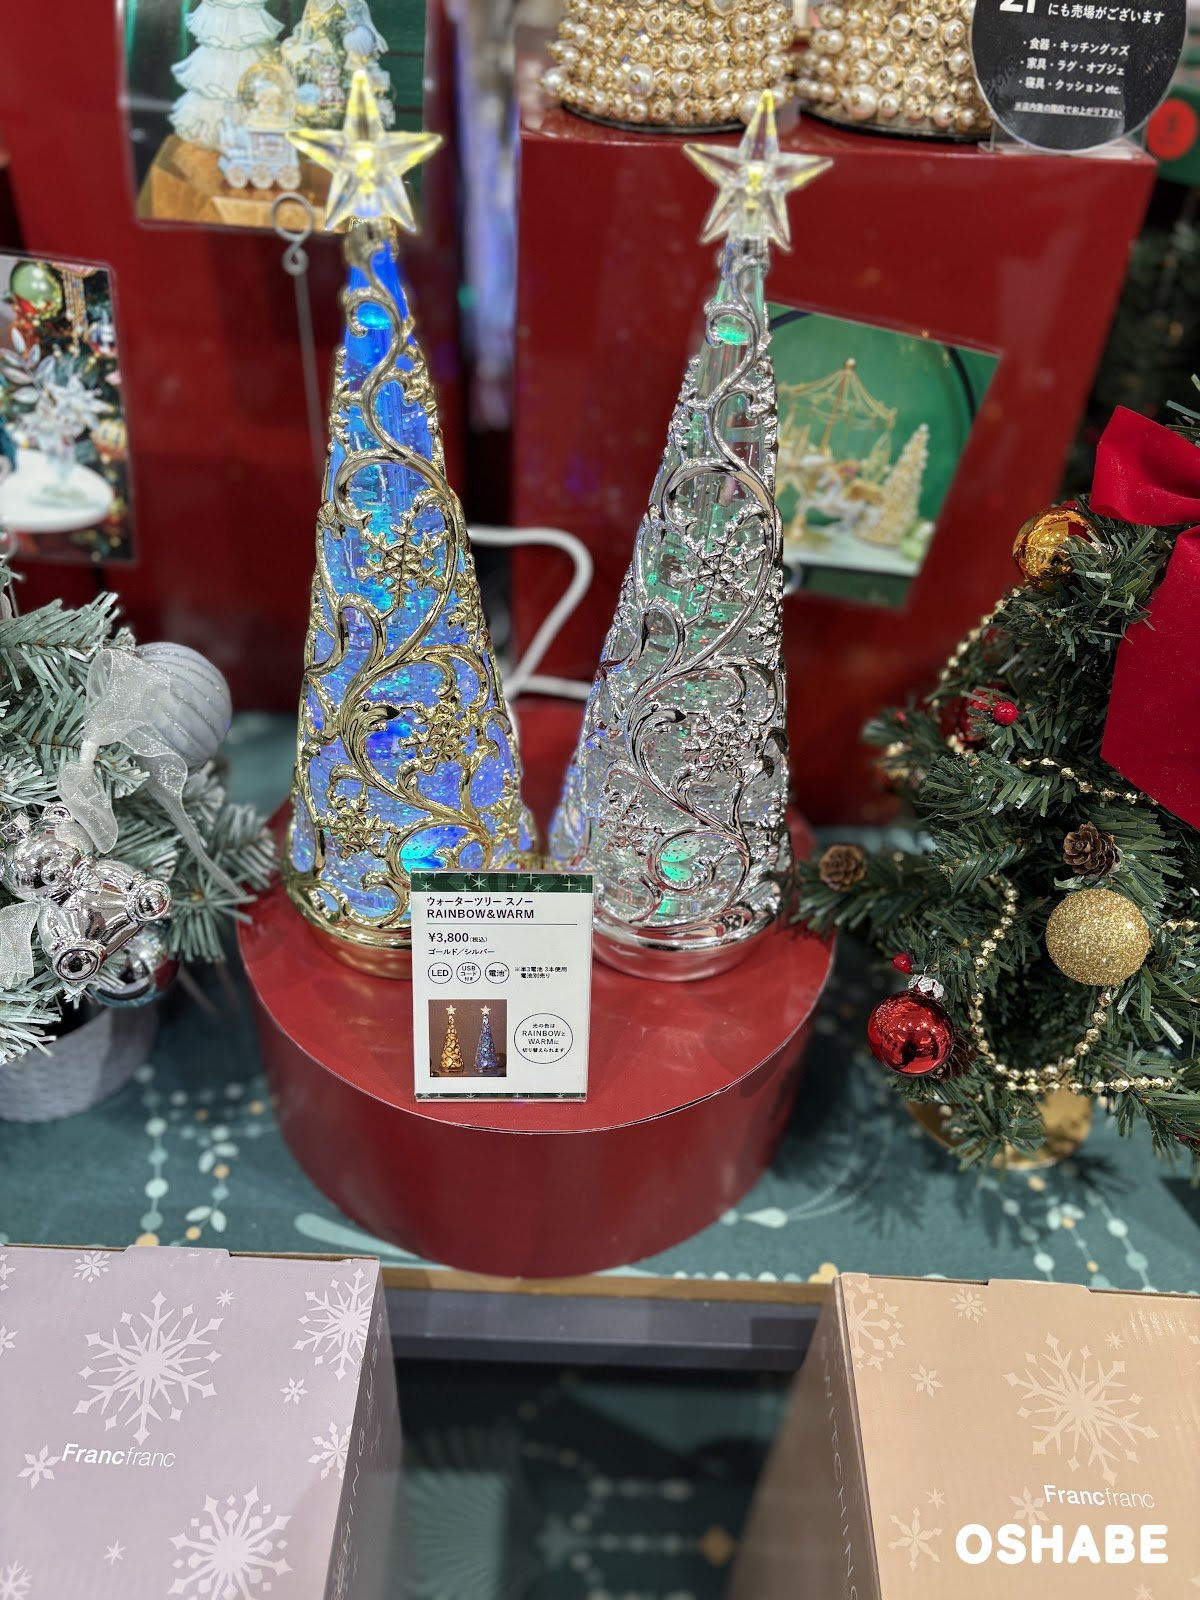
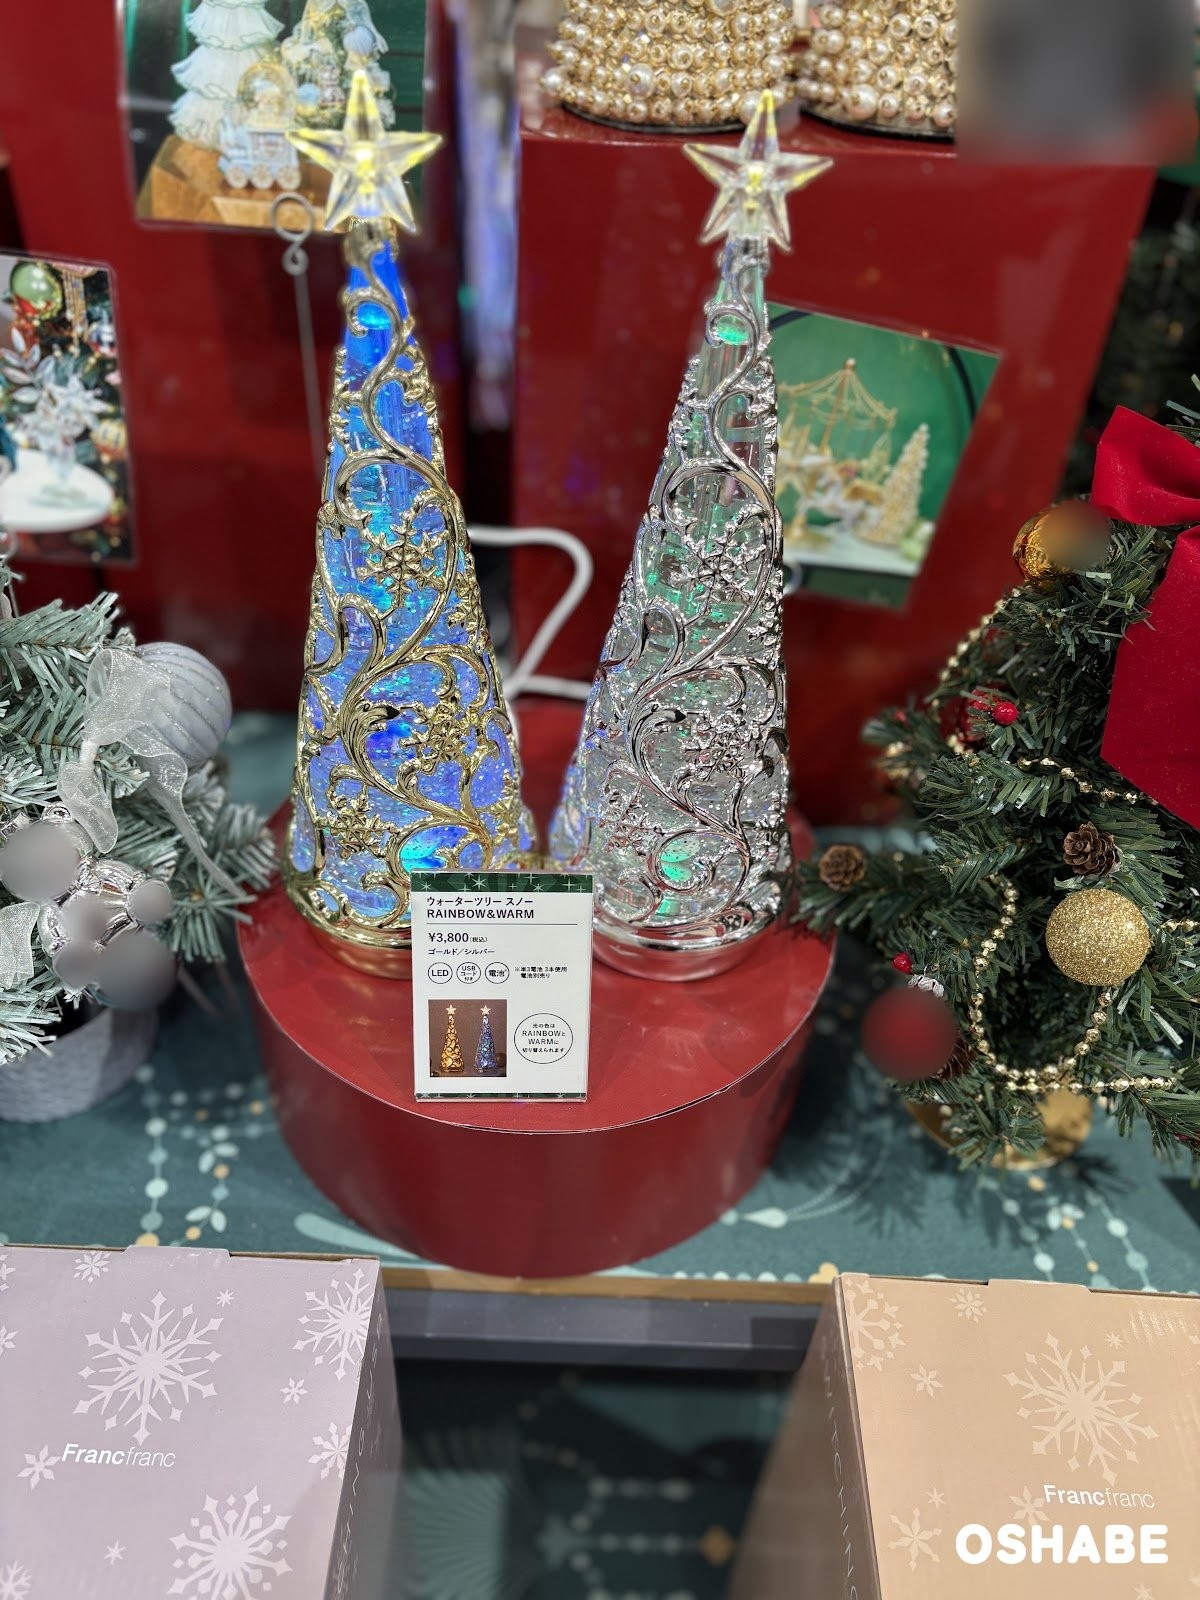
11/14〜11/22の10記事の文章と写真を整える
商品名・点数・言い回しを写真に合わせて直し、写真の写り込みをぼかした。

diff --git a/src/content/posts/2026/11/17/christmas-tableware-2026.md b/src/content/posts/2026/11/17/christmas-tableware-2026.md
@@ -1,7 +1,7 @@
 ---
 title: "ナチュラルキッチンのクリスマス食器2026【画像・値段】サンタの皿、箸置き、紙皿"
 pubDate: "2026-11-17"
-description: "ナチュラルキッチン（Natural Kitchen &）のクリスマスの食器と雑貨を写真と値段で紹介。サンタのプレート、スノーマンの箸置き、テーブルランナー、紙皿など10点、税込110円から550円まで。"
+description: "ナチュラルキッチン（Natural Kitchen &）のクリスマスの食器と雑貨を写真で紹介。サンタのプレート、箸置き、紙皿など10点は税込110円から550円。ミニカードも紹介します。"
 categories: ["クリスマス", "グッズ", "イベント", "プチプラ"]
 cover: "../../../../images/2026-11-17-christmas-tableware-2026-02.jpg"
 coverPosition: "50% 75%"
@@ -40,7 +40,7 @@ coverPosition: "50% 75%"
 
 税込330円です。
 
-白い陶器の細長いお皿で、持ち手の先に白いサンタが付いています。値札には、電子レンジは180℃、オーブンは200℃、食器洗い機は70℃まで使えると書かれています。
+白い陶器の細長いお皿で、持ち手の先に白いサンタが付いています。値札には「レンジ：180℃、オーブン：200℃、食洗機：70℃」とあります。
 
 クッキーやチョコを少しだけのせて出すのに良さそうです。
 
@@ -56,7 +56,7 @@ coverPosition: "50% 75%"
 
 箸置き 仰向けスノーマンは、赤いマフラーを巻いたスノーマンがあお向けに寝ている形です。値札には、オブジェとしても使えること、食器洗い機は使えないことが書かれています。
 
-フォークやスプーンを立てておけば、パーティーのテーブルがすっきりします。
+フリーポットにフォークやスプーンを立てておけば、パーティーのテーブルがすっきりします。
 
 ころんと寝ころんだスノーマンの箸置きは、並べるだけで可愛いです♪
 
@@ -96,7 +96,7 @@ amifa（アミファ）のファブリックミニカード
 
 ラウンドプレート フープは税込550円、ボウル フープは税込330円です。刺繍テーブルランナー ヒイラギラインは税込550円です。
 
-ラウンドプレート フープとボウル フープは、深い赤茶色のお皿です。ふちには、レースのような模様が浮き出ています。値札には、電子レンジは170℃、オーブンは260℃、食器洗い機は70℃まで使えると書かれています。
+ラウンドプレート フープとボウル フープは、深い赤茶色のお皿です。ふちには、レースのような模様が浮き出ています。値札には「レンジ：170℃、オーブン：260℃、食洗機：70℃」とあります。
 
 刺繍テーブルランナー ヒイラギラインは、生成り色の布に、ヒイラギと金や銀の雪の結晶の刺繍が入っています。ふちは、赤い波のような線で縁どられています。サイズは、幅85cm×高さ36cmです。
 
@@ -122,9 +122,9 @@ amifaの紙皿（PAPER PLATE）と紙ボウル（PAPER BOWL）
 
 いかがでしたか。
 
-ナチュラルキッチンでは、サンタやスノーマンの食器、フープのお皿、テーブルランナー、紙皿など10点が並んでいました。
+ナチュラルキッチンでは、サンタやスノーマンの食器、フープのお皿、テーブルランナー、紙皿など10点と、ミニカードが並んでいました。
 
-値段は、税込110円から550円までです。
+食器と雑貨10点の値段は、税込110円から550円までです。
 
 12月のクリスマスパーティーの前に、家族や友達と囲むテーブルの準備をしてみてはいかがでしょうか。
 

diff --git a/src/content/posts/2026/11/22/seria-christmas-headband-2026.md b/src/content/posts/2026/11/22/seria-christmas-headband-2026.md
@@ -1,7 +1,7 @@
 ---
 title: "セリア100均のクリスマス仮装2026【画像・値段】カチューシャ、ぬい服、ペット"
 pubDate: "2026-11-22"
-description: "100均のセリア（Seria）のクリスマスの仮装グッズを写真で紹介。トナカイやサンタのカチューシャ6種、ヘアクリップ、ペット用の首輪とマフラー、ぬい服（ぬいぐるみの衣装）など14点。どれも税込110円です。"
+description: "100均のセリア（Seria）のクリスマスの仮装グッズを写真で紹介。トナカイやサンタのカチューシャ6種、ヘアクリップ、ペット用のアクセサリーとマフラー、ぬい服（ぬいぐるみの衣装）など14点。どれも税込110円です。"
 categories: ["100均", "クリスマス", "イベント", "プチプラ"]
 cover: "../../../../images/2026-11-17-seria-christmas-headband-2026-11.jpg"
 coverPosition: "50% 50%"
@@ -26,7 +26,7 @@ coverPosition: "50% 50%"
 
 カチューシャも角も、茶色の毛足のある生地でくるまれています。角は先が丸く、ころんとした形です。
 
-フェルトの角よりやわらかい見た目なので、小さめの子供の顔にもなじみます。
+ふわふわの生地と丸い角で、フェルトの角よりやさしい印象です。
 
 トナカイカチューシャ（Reindeer Headband）
 
@@ -96,9 +96,9 @@ coverPosition: "50% 50%"
 
 ![](../../../../images/2026-11-17-seria-christmas-headband-2026-08.jpg)
 
-小型犬や猫用で、首周り約23〜38cm まで着けられます。赤いリボンの首輪に、白いふちの赤い蝶ネクタイと金色の鈴が付いています。
+小型犬や猫用で、首周り約23〜38cm まで着けられます。赤いリボンに、白いふちの赤い蝶ネクタイと金色の鈴が付いています。
 
-いつもの首輪の代わりに、写真を撮るときだけ着け替えられます。
+写真を撮るときに着けると、赤い蝶ネクタイがよく映えます。
 
 クリスマス ペットコスチューム
 

diff --git a/src/content/posts/2026/11/20/kiddyland-myakumyaku-sanrio.md b/src/content/posts/2026/11/20/kiddyland-myakumyaku-sanrio.md
@@ -34,11 +34,11 @@ EXPO2025 公式ライセンス商品のPOP
 | :--- | :--- |
 | ぬいぐるみ M 日焼け | 各税込5,940円 |
 | ぬいぐるみカラビナマスコット 日焼け | 各税込3,960円 |
-| キラキラララメシール | 各税込715円 |
+| キラキララメシール | 各税込715円 |
 | 立体マスコットフロッキーストラップキーホルダー | 各税込1,650円 |
 | 立体マスコットキーホルダー 日焼け | 各税込1,320円 |
 
-POPの一部の商品には「次回入荷未定」のシールが貼られていました。
+POPの一部の商品には「次回入荷未定」のシールが貼られていました。キーホルダー2種類は、POPに入荷予定の商品として載っていました。
 
 ぬいぐるみカラビナマスコット 日焼け ハローキティ・マイメロディ・クロミ
 
@@ -102,7 +102,7 @@ BCマスコット（日焼け） ハイビスカス
 
 いかがでしたか。
 
-キデイランドには、サンリオキャラクターズのコラボ5種類と、ミャクミャクのマスコット2種類が並んでいました。
+店頭のPOPでは、サンリオとのコラボ5種類と、ミャクミャクのマスコット2種類が紹介されていました。
 
 値段は、税込715円から5,940円までです。
 

diff --git a/src/content/posts/2026/11/21/seria-christmas-ornaments-2026.md b/src/content/posts/2026/11/21/seria-christmas-ornaments-2026.md
@@ -70,7 +70,7 @@ coverPosition: "50% 35%"
 
 ツリートップスター アラベスクは、唐草模様のすかしが入った銀色の星です。大きさは約 高さ14×幅14.5×奥行き1.5cm です。
 
-左下のミックスオーナメントは、銀色の小さな飾りがいろいろ入った10個入りです。
+左下のミックスオーナメントには、銀色の小さな飾りが合わせて10個入っています。
 
 シンプルな銀色なので、どんな色のツリーにも合わせやすいです。
 
@@ -100,7 +100,7 @@ coverPosition: "50% 35%"
 
 ![](../../../../images/2026-11-17-seria-christmas-ornaments-2026-15.jpg)
 
-クリスマススターオーナメントは、銀色のラメの星の3個入りです。ミックスボールは赤、アンティークボールは水色で、どちらも直径20mmの6個入りです。
+クリスマススターオーナメントは、銀色のラメが光る星形の飾りです。3個入っています。ミックスボールは赤、アンティークボールは水色で、どちらも直径20mmの6個入りです。
 
 下の段には、銀色のハートが入ったメタリックハートオーナメントも並んでいました。
 

diff --git a/src/content/posts/2026/11/21/seria-christmas-cards-2026.md b/src/content/posts/2026/11/21/seria-christmas-cards-2026.md
@@ -26,7 +26,7 @@ coverPosition: "50% 60%"
 
 ![](../../../../images/2026-11-17-seria-christmas-cards-2026-11.jpg)
 
-紺色の地に、手を振るサンタと、プレゼントを持ったトナカイが描かれています。白い「Merry Christmas」の文字は、カードの縦の向きに入っています。封筒はクリーム色です。
+紺色の地に、手を振るサンタと、プレゼントを持ったトナカイが描かれています。横長のカードで、上の方に白い「Merry Christmas」の文字が入っています。封筒はクリーム色です。
 
 プレゼントの箱の上にのせて渡すと、押したときに曲が流れます。
 
@@ -88,7 +88,7 @@ coverPosition: "50% 60%"
 
 青い夜空と雪の積もったモミの木の森に、雪だるまと赤いそりが描かれています。木の箱の中から、リースを付けた犬が顔を出しています。封筒は水色です。
 
-奥行きのある絵なので、机に立てて飾っておけます。
+机に飾ると、雪の森の奥行きも楽しめます。
 
 ### ポップアップカード
 

diff --git a/src/content/posts/2026/11/14/new-year-pochibukuro-2027.md b/src/content/posts/2026/11/14/new-year-pochibukuro-2027.md
@@ -32,7 +32,7 @@ coverPosition: "50% 15%"
 
 「フェルト着ぐるみ動物」は2枚入りです。水色のフェルトの着ぐるみを着たうさぎが、「千万両」の小判を抱えています。
 
-「おみくじ うま」は3枚入りです。ピンク色のうまの形で、頭に赤い梅の花が付いています。うまは2026年の干支なので、今年のお年玉の残りや、うま年生まれの方へのお祝いに使えそうです。パッケージには「大吉」と書かれたにんじんの絵があります。
+「おみくじ うま」は3枚入りです。ピンク色のうまの形で、頭に赤い梅の花が付いています。うまは2026年の干支です。うま年生まれの方へのお祝いにも使えそうです。パッケージには「大吉」と書かれたにんじんの絵があります。
 
 下の「迎春破魔矢飾り 吸盤付き」は、紅白のひもの輪に、破魔矢と「開運厄除」の札が付いています。吸盤付きなので、窓ガラスやタイルの壁にも飾れます。
 

diff --git a/src/content/posts/2026/11/15/francfranc-christmas-tree-2026.md b/src/content/posts/2026/11/15/francfranc-christmas-tree-2026.md
@@ -1,7 +1,7 @@
 ---
 title: "フランフランのクリスマスツリー2026【画像・値段】スターターセット"
 pubDate: "2026-11-15"
-description: "Francfranc（フランフラン）のクリスマスツリーを写真と値段で紹介。スターターセット3色、デスクトップツリー、チュールツリーなど7点、税込3,400円から13,800円まで。"
+description: "Francfranc（フランフラン）のクリスマスツリーを写真と値段で紹介。150cmのスターターセット3色と、卓上に飾れる小さなツリー4種類。税込3,400円から13,800円まで。"
 categories: ["クリスマス", "グッズ", "イベント"]
 cover: "../../../../images/2026-11-17-francfranc-christmas-tree-2026-02.jpg"
 coverPosition: "50% 35%"

diff --git a/src/content/posts/2026/11/18/francfranc-christmas-2026.md b/src/content/posts/2026/11/18/francfranc-christmas-2026.md
@@ -102,7 +102,7 @@ Lサイズは税込4,000円、Mサイズは税込3,000円です。
 
 左のホワイトは、白いモミの葉に、銀色と白のボールと銀色の松ぼっくりを合わせたリースです。右のグリッターは、金色の葉と、シャンパンゴールドのラメの松ぼっくりが付いています。グリッターには、パールのような白い玉と、こげ茶やオレンジのボールも入っています。
 
-ホワイトは雪の日のような、すっきりしたお部屋に合いそうです。
+白と銀のリースは雪景色のようで、すっきりしたお部屋に合います。
 
 グリッターは大人っぽい色で、リビングに飾りたくなります。
 
